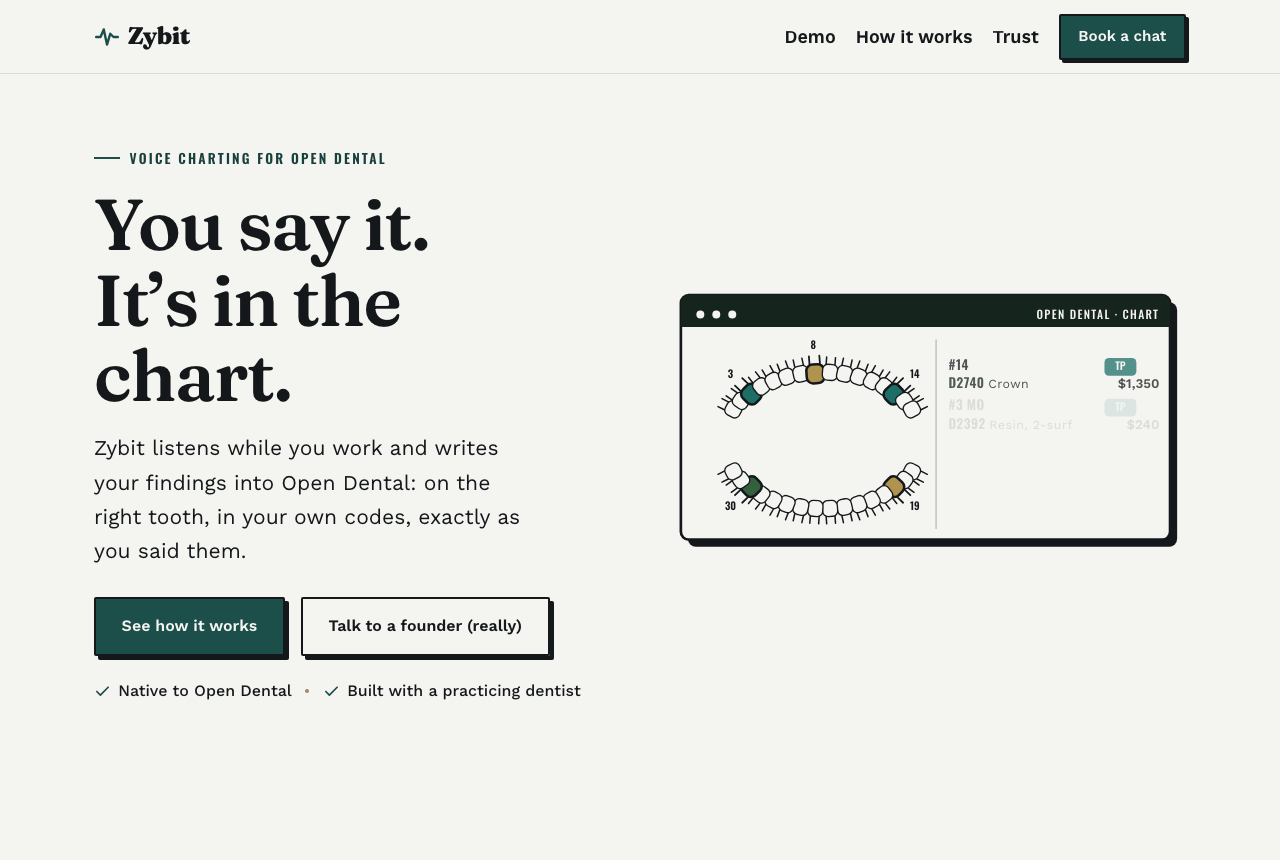
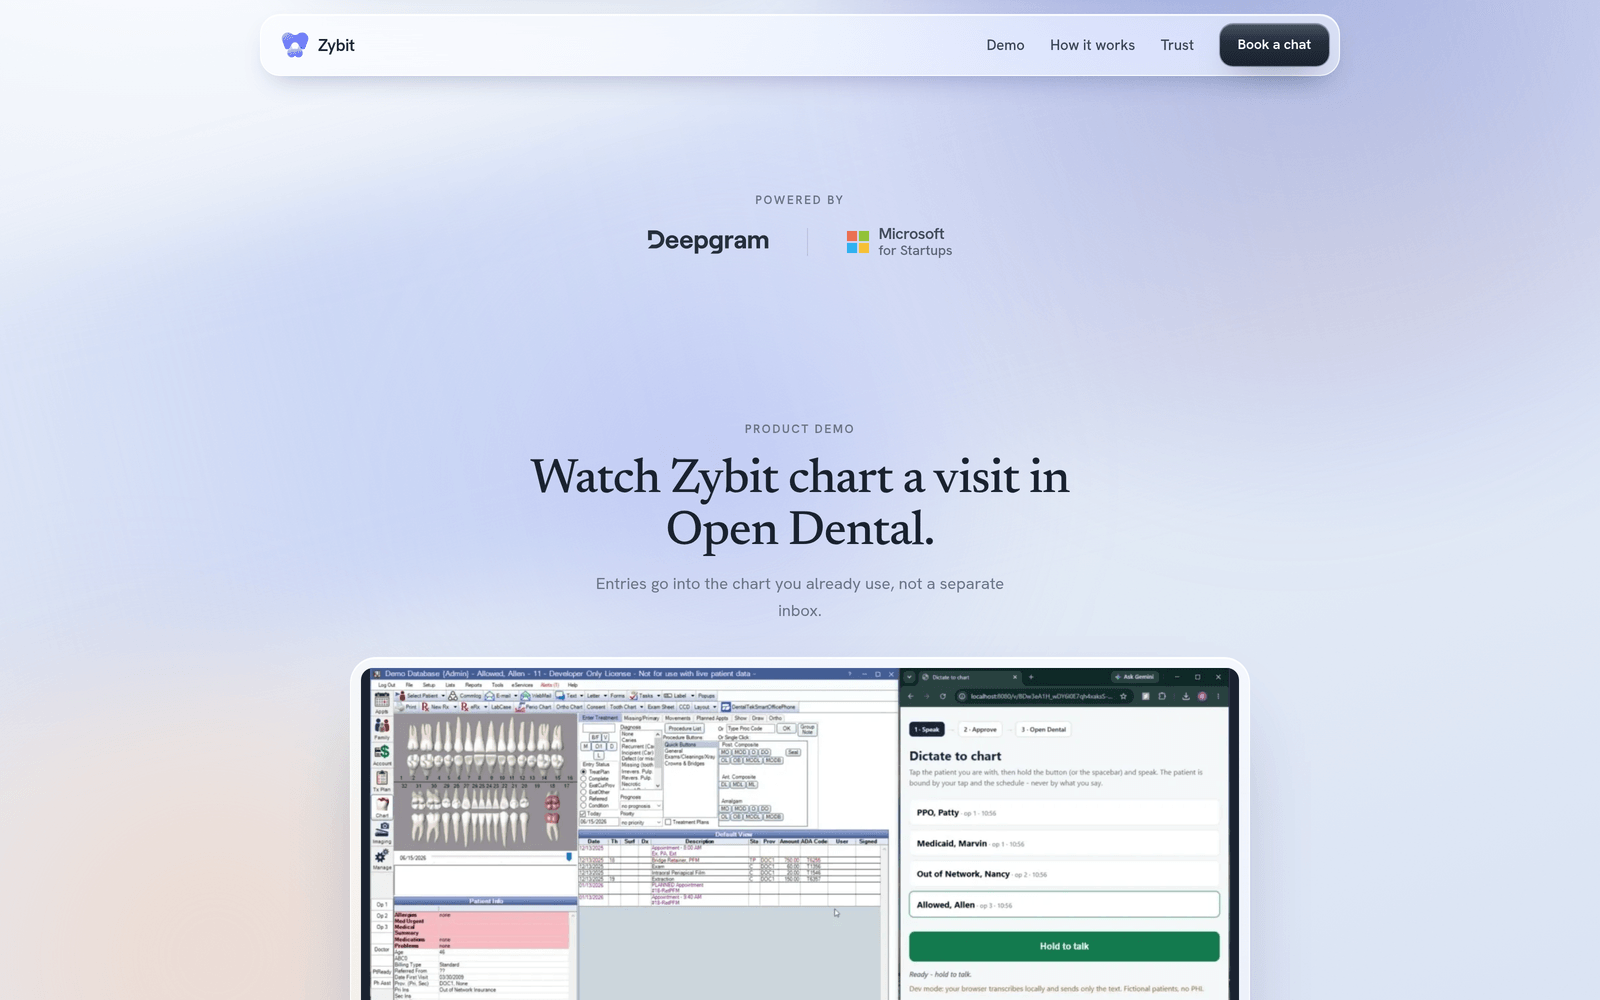
Refresh project cards: new Zybit shot, Reckon Review site, drop RWA Analyzer
- Replace the Zybit card image with the product-demo section of getzybit.com
  ("Watch Zybit chart a visit in Open Dental").
- Give Reckon Review a card image (its landing-page hero) and point both its
  card and the intro-paragraph link at https://www.reckonreview.dev instead of
  the GitHub app page.
- Remove the RWA Analyzer project from projects.json, its cached GitHub
  metadata, and its screenshot.

Both new shots are 1600x1000, matching the cards' 16:10 aspect so nothing is
cropped.

Claude-Session: https://claude.ai/code/session_01VyNfdKk1FLEZydL2YCbQXU

diff --git a/src/App.jsx b/src/App.jsx
@@ -181,7 +181,7 @@ const App = () => (
         </div>
         <p className="mt-7 text-[17px] leading-relaxed text-ink/80">
           I build and ship applied AI: <a href="https://getzybit.com" target="_blank" rel="noopener noreferrer" className="text-blood link-ul">Zybit</a>, voice
-          AI that charts for dentists in three practices, and <a href="https://github.com/Archdiner/reckon-review" target="_blank" rel="noopener noreferrer" className="text-blood link-ul">Reckon&nbsp;Review</a>, a GitHub
+          AI that charts for dentists in three practices, and <a href="https://www.reckonreview.dev" target="_blank" rel="noopener noreferrer" className="text-blood link-ul">Reckon&nbsp;Review</a>, a GitHub
           app that won&apos;t let a pull request merge until a human can explain it. I&apos;m just as into the infra
           underneath: open models, local inference, decentralized compute with <a href="https://akash.network" target="_blank" rel="noopener noreferrer" className="text-blood link-ul">Akash</a>.
         </p>
